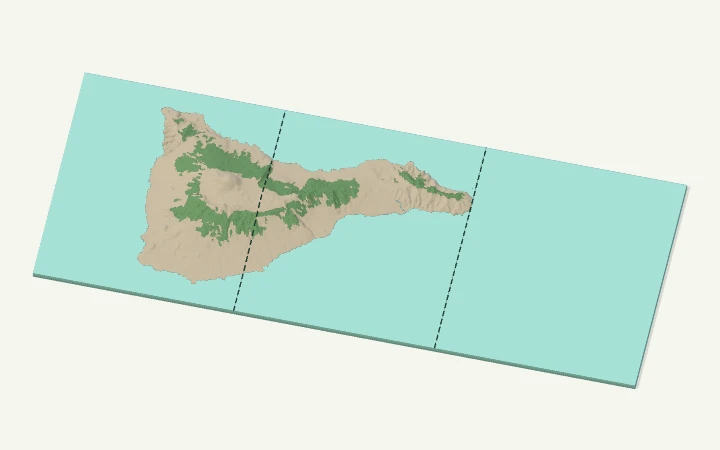
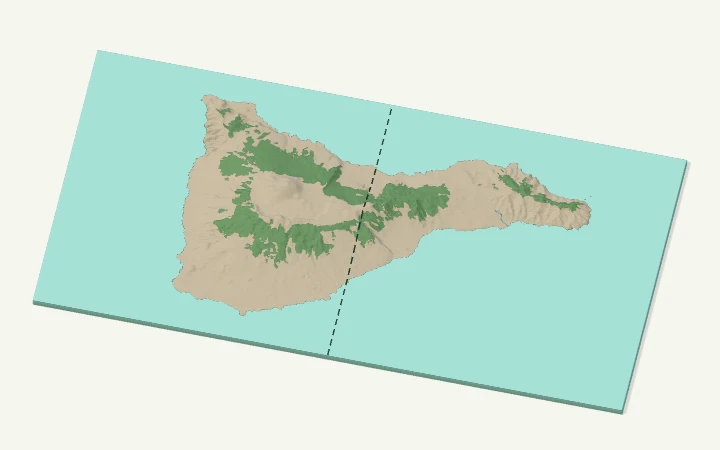
Ajusta el retall de Tenerife a dues peces

Changed region(s): [[0.0306, 0.0933, 0.9778, 0.9333]]

diff --git a/index.html b/index.html
@@ -212,7 +212,7 @@
       <path d="m27 9 7-6" stroke="var(--umbrella-accent)" stroke-width="4.5"/>
     </svg><span>ortogra<span class="umbrella-dot">.</span>fi</span>
   </a></p>
-  <div><a href="https://github.com/aaronFortuno/relleu-obert" target="_blank" rel="noreferrer" data-i18n-text="ui.footer.openSource"><svg class="repo-icon" viewBox="0 0 16 16" aria-hidden="true" focusable="false"><path d="M1 8h4m6 0h4"/><circle cx="8" cy="8" r="3"/></svg>Codi obert</a><a href="https://github.com/aaronFortuno/relleu-obert/blob/main/LICENSE" target="_blank" rel="noreferrer">MIT</a><button id="version-open" class="version-button" aria-label="Historial de versions">v0.23.5</button><button data-open="about-dialog" class="v4v-button" aria-label="Sobre el projecte · V4V" data-i18n-aria="ui.footer.about"><span class="desktop-copy" data-i18n="ui.footer.aboutDesktop">♡ Sobre el projecte · V4V</span><span class="mobile-copy">V4V</span></button></div>
+  <div><a href="https://github.com/aaronFortuno/relleu-obert" target="_blank" rel="noreferrer" data-i18n-text="ui.footer.openSource"><svg class="repo-icon" viewBox="0 0 16 16" aria-hidden="true" focusable="false"><path d="M1 8h4m6 0h4"/><circle cx="8" cy="8" r="3"/></svg>Codi obert</a><a href="https://github.com/aaronFortuno/relleu-obert/blob/main/LICENSE" target="_blank" rel="noreferrer">MIT</a><button id="version-open" class="version-button" aria-label="Historial de versions">v0.23.6</button><button data-open="about-dialog" class="v4v-button" aria-label="Sobre el projecte · V4V" data-i18n-aria="ui.footer.about"><span class="desktop-copy" data-i18n="ui.footer.aboutDesktop">♡ Sobre el projecte · V4V</span><span class="mobile-copy">V4V</span></button></div>
 </footer>
 
 <dialog id="projects-dialog" aria-labelledby="projects-title">

diff --git a/src/main.js b/src/main.js
@@ -1373,6 +1373,7 @@ $('#release-list').innerHTML=[['0.23.2','Botó de Galeria de maquetes amb vora i
 $('#release-list').insertAdjacentHTML('afterbegin',`<article class="release-entry"><div><strong>v0.23.3</strong><time datetime="2026-11-05">05/11/2026</time></div><p data-i18n="history.translationRelease">${t('history.translationRelease')}</p></article>`);
 $('#release-list').insertAdjacentHTML('afterbegin',`<article class="release-entry"><div><strong>v0.23.4</strong><time datetime="2026-11-05">05/11/2026</time></div><p data-i18n="history.galleryGrid">${t('history.galleryGrid')}</p></article>`);
 $('#release-list').insertAdjacentHTML('afterbegin',`<article class="release-entry"><div><strong>v0.23.5</strong><time datetime="2026-11-05">05/11/2026</time></div><p data-i18n="guide.release">${t('guide.release')}</p></article>`);
+$('#release-list').insertAdjacentHTML('afterbegin',`<article class="release-entry"><div><strong>v0.23.6</strong><time datetime="2026-11-05">05/11/2026</time></div><p data-i18n="history.tenerifeFrame">${t('history.tenerifeFrame')}</p></article>`);
 $('#copy-lightning').onclick=async()=>{try{await navigator.clipboard.writeText('aptswim903@walletofsatoshi.com');feedback('copy-status',statusMessage('copy.done'));}catch{feedback('copy-status',statusMessage('copy.manual'));}};
 for(const toggle of document.querySelectorAll('.sidebar-left .section-toggle'))toggle.disabled=true;
 function refreshWorkshopLanguage(){

diff --git a/src/locales/workshop-base.js b/src/locales/workshop-base.js
@@ -1,5 +1,6 @@
 // Each row follows the order ca, es, gl, eu, en.
 export default {
+  'history.tenerifeFrame': ["Nou retall de Tenerife en dues peces de 20 × 20 cm.","Nuevo encuadre de Tenerife en dos piezas de 20 × 20 cm.","Novo recorte de Tenerife en dúas pezas de 20 × 20 cm.","Tenerifeko ebakidura berria, 20 × 20 cm-ko bi piezatan.","New Tenerife framing in two 20 × 20 cm pieces."],
   'history.galleryGrid': ["Galeria amb graella de fitxes, filtres i dos exemples nous de l’Aneto.","Galería con cuadrícula de fichas, filtros y dos ejemplos nuevos del Aneto.","Galería con grella de fichas, filtros e dous exemplos novos do Aneto.","Galeria txartel-saretarekin, iragazkiekin eta Anetoko bi adibide berrirekin.","Gallery with a card grid, filters and two new Aneto examples."],
   'app.tagline': ['Geografia que pots tocar.', 'Geografía que puedes tocar.', 'Xeografía que podes tocar.', 'Ukitu dezakezun geografia.', 'Geography you can touch.'],
   'header.help': ['Com funciona', 'Cómo funciona', 'Como funciona', 'Nola dabil', 'How it works'],

diff --git a/src/curated-examples.js b/src/curated-examples.js
@@ -143,8 +143,8 @@ export const CURATED_EXAMPLES = [
     category: 'Illa volcànica',
     landforms: ['islands', 'volcanic'],
     description: 'L’illa sencera, del Teno a Anaga i a la punta de la Rasca, amb el Teide al centre.',
-    center: [28.367, -16.308],
-    width: 510,
+    center: [28.296977003484972, -16.478324950580063],
+    width: 400,
     height: 200,
     scale: 300000,
     rotation: -25,

diff --git a/work/RO-046-CATALEG.md b/work/RO-046-CATALEG.md
@@ -31,7 +31,7 @@ Les tres imatges WebP de 720 × 450 píxels ocupen 168 kB en total. Les captures
 
 El lot final incorpora els onze retalls de Relleu pur i els vuit de Model complet que faltaven. Amb la incorporació de la badia de Tamariu, el carrusel reparteix 17 fitxes de Relleu pur i 12 de Model complet al llarg del bucle. Els 29 retalls de les taules es poden generar des de la fitxa, amb la mida, el centre, el gir i l’escala documentats.
 
-La captura panoràmica de Tenerife mostra les tres peces. A Granada, el visor conserva les vies ordinàries i els edificis quan falla la integració dels perfils suaus. A Amsterdam, la unió dels carrers es recupera amb un ajust de precisió projectada i es conserva el retall. Els models urbans grans poden trigar diversos minuts en l’equip de prova.
+La primera captura de Tenerife mostrava tres peces. A Granada, el visor conserva les vies ordinàries i els edificis quan falla la integració dels perfils suaus. A Amsterdam, la unió dels carrers es recupera amb un ajust de precisió projectada i es conserva el retall. Els models urbans grans poden trigar diversos minuts en l’equip de prova.
 
 Les dinou captures del lot final són WebP de 720 × 450 píxels i ocupen 729 kB en total. La cartografia i els edificis d’aquest lot provenen d’OpenStreetMap via OpenFreeMap. [Imatges](../public/examples/) · [OpenStreetMap](https://www.openstreetmap.org/copyright)
 
@@ -54,15 +54,19 @@ Els dos retalls de l’Aneto comparen el conjunt del massís amb el detall dels 
 
 Les dues captures WebP de 720 × 450 píxels provenen del visor. Fan servir elevacions de Mapterhorn, roca i neu derivades d’ESA WorldCover 2021 v200 (CC BY 4.0), i aigua i bosc d’OpenStreetMap via OpenFreeMap. [Mapterhorn](https://mapterhorn.com/attribution/) · [ESA WorldCover](https://doi.org/10.5281/zenodo.7254221) · [OpenStreetMap](https://www.openstreetmap.org/copyright)
 
+## Tenerife en dues peces
+
+El nou retall reprodueix l’enquadrament de `tenerife.json` aportat per l’usuari. El model de Relleu pur abasta 120 × 60 km amb detall equilibrat i exageració vertical ×1,5. La miniatura WebP mostra la guia de tall entre les dues peces de 20 × 20 cm. [Miniatura de Tenerife](../public/examples/tenerife.webp)
+
 ## Com reproduir els retalls
 
 1. Tria el mode i introdueix la **mida de la maqueta** en l’ordre amplada × alçada. Fes servir la mida personalitzada quan calgui.
 2. Enganxa a la cerca de Territori el **centre del retall** en graus decimals WGS84, amb punt decimal i coma entre latitud i longitud. Els enllaços «Mapa» situen aquest punt.
-3. Mou el selector d’**escala horitzontal** fins al valor indicat. Les fletxes permeten avançar un salt d’escala cada vegada. Orienta el nord a dalt (gir de 0°), amb un gir de +10° al Cap de Creus i de −25° al panorama de Tenerife. L’**extensió** és la mida real del retall, calculada a partir de la mida de la maqueta i l’escala.
+3. Mou el selector d’**escala horitzontal** fins al valor indicat. Les fletxes permeten avançar un salt d’escala cada vegada. Orienta el nord a dalt (gir de 0°), amb un gir de +10° al Cap de Creus i de −25° a Tenerife. L’**extensió** és la mida real del retall, calculada a partir de la mida de la maqueta i l’escala.
 
-El centre de cada fila és el punt mig de l’enquadrament proposat. Pot caure a l’aigua o fora del topònim. La mida i el gir formen part de l’enquadrament. Si es canvia la proporció de la peça, cal mantenir dins del retall els elements citats a la fitxa. El panorama de Tenerife té un format específic.
+El centre de cada fila és el punt mig de l’enquadrament proposat. Pot caure a l’aigua o fora del topònim. La mida i el gir formen part de l’enquadrament. Si es canvia la proporció de la peça, cal mantenir dins del retall els elements citats a la fitxa.
 
-A la versió 0.22.21, el **Model complet** admet fins a 1:20.000, amb un límit addicional per superfície de càrrega. El **Relleu pur** admet 1:10.000–1:100.000 en formats de fins a 50 cm de costat, i 1:50.000–1:500.000 en el format panoràmic de 51–100 × 10–20 cm. Per comparar les mostres de Relleu pur, la lectura de la forma es farà amb el terreny i l’aigua. La cobertura del sòl i el bosc que ofereix el mode són secundaris per a aquesta tria. [Regles de selecció](../src/selection.js) · [Límits d’escala](../src/place-map.js) · [Seguiment del mode](RO-055-RELLEU-PUR.md)
+El **Model complet** admet fins a 1:20.000, amb un límit addicional per superfície de càrrega. El **Relleu pur** admet 1:10.000–1:500.000 en formats de fins a 50 cm de costat, i 1:50.000–1:500.000 en el format panoràmic de 51–100 × 10–20 cm. El terreny i l’aigua permeten comparar les formes de les mostres de Relleu pur. [Regles de selecció](../src/selection.js) · [Límits d’escala](../src/place-map.js) · [Seguiment del mode](RO-055-RELLEU-PUR.md)
 
 ## Relleu pur
 
@@ -81,7 +85,7 @@ A la versió 0.22.21, el **Model complet** admet fins a 1:20.000, amb un límit 
 
 | Què representa | Lloc | Centre del retall | Extensió real | Maqueta i escala | Què s’hi hauria de llegir |
 | --- | --- | --- | --- | --- | --- |
-| Illa volcànica | Tenerife (Canàries) | `28.3670,-16.3080` [Mapa](https://www.openstreetmap.org/?mlat=28.3670&mlon=-16.3080#map=8/28.3670/-16.3080) | 153 × 60 km | 51 × 20 cm · 1:300.000 · −25° | El contorn de l’illa sencera, del Teno a Anaga i a la punta de la Rasca, amb el Teide al centre del relleu insular. [Cartografia del Cabildo de Tenerife](https://datos.canarias.es/catalogos/general/dataset/limites-municipales-de-tenerife/resource/91c4573e-d737-4c20-9827-758727d08e3a) |
+| Illa volcànica | Tenerife (Canàries) | `28.29697700,-16.47832495` [Mapa](https://www.openstreetmap.org/?mlat=28.29697700&mlon=-16.47832495#map=8/28.29697700/-16.47832495) | 120 × 60 km | 40 × 20 cm · 1:300.000 · −25° | El contorn de l’illa sencera, del Teno a Anaga i a la punta de la Rasca, amb el Teide al centre del relleu insular. Dues peces de 20 × 20 cm. [Cartografia del Cabildo de Tenerife](https://datos.canarias.es/catalogos/general/dataset/limites-municipales-de-tenerife/resource/91c4573e-d737-4c20-9827-758727d08e3a) |
 | Con volcànic i caldera | Teide i Las Cañadas (Tenerife) | `28.2600,-16.6150` [Mapa](https://www.openstreetmap.org/?mlat=28.2600&mlon=-16.6150#map=10/28.2600/-16.6150) | 24 × 20 km | 24 × 20 cm · 1:100.000 | Retall de detall de l’illa per llegir la vora de la caldera i els cons del Teide i Pico Viejo. [IGN](https://www.ign.es/web/catalogo-cartoteca/resources/pdfcards/card031570.pdf) |
 | Vall glacial | Ordesa i Mont Perdut (Aragó) | `42.6300,0.0250` [Mapa](https://www.openstreetmap.org/?mlat=42.6300&mlon=0.0250#map=10/42.6300/0.0250) | 24 × 20 km | 24 × 20 cm · 1:100.000 | La vall d’Ordesa i les seves parets fins al massís del Mont Perdut. Interessant per comparar la secció amb la d’un canó fluvial. [MITECO](https://www.miteco.gob.es/en/parques-nacionales-oapn/red-parques-nacionales/parques-nacionales/ordesa/valores-naturales/geologia.html) |
 | Massís d’alta muntanya | Pirineus · sector de l’Aneto (Aragó) | `42.6350,0.6500` | 24 × 20 km | 24 × 20 cm · 1:100.000 | El massís de la Maladeta, amb el cim de l’Aneto i les valls que l’envolten. |
@@ -146,9 +150,9 @@ A la versió 0.22.21, el **Model complet** admet fins a 1:20.000, amb un límit 
 
 ## Validació abans d’incorporar-los al selector
 
-Els retalls tenen mida, escala i centre definits. La comprovació local cobreix els límits geomètrics i de càrrega de l’aplicació. A Tenerife també s’ha contrastat el retall girat amb els límits municipals del Cabildo. L’illa queda sencera i les illes veïnes queden fora del retall. La generació de les mostres queda per després de triar el lot inicial. [Límits municipals de Tenerife](https://datos.canarias.es/catalogos/general/dataset/limites-municipales-de-tenerife/resource/91c4573e-d737-4c20-9827-758727d08e3a) · [Contorns insulars de l’ISTAC](https://datos.canarias.es/catalogos/general/dataset/islas-canarias-delimitaciones-territoriales-para-fines-estadisticos2)
+Els retalls tenen mida, escala i centre definits. La comprovació local cobreix els límits geomètrics i de càrrega de l’aplicació. La primera proposta de Tenerife es va contrastar amb els límits municipals del Cabildo i els contorns insulars de l’ISTAC. [Límits municipals de Tenerife](https://datos.canarias.es/catalogos/general/dataset/limites-municipales-de-tenerife/resource/91c4573e-d737-4c20-9827-758727d08e3a) · [Contorns insulars de l’ISTAC](https://datos.canarias.es/catalogos/general/dataset/islas-canarias-delimitaciones-territoriales-para-fines-estadisticos2)
 
 - **Costa i aigües poc profundes.** Comprova el contorn marí, les llacunes i els passos estrets del delta. Revisa la cota de base en mostres de costa, arran de la incidència registrada a Tamariu. A les maquetes el mar és una superfície plana. [Incidència i tractament del mar](BACKLOG.md#ro-055--mode-de-relleu-pur)
 - **Formes de muntanya.** Revisa la silueta amb exageració vertical ×1 abans d’ajustar-la. Les agulles, els cràters petits i els penya-segats depenen de la resolució del terreny.
 - **Trama urbana.** Contrasta les petjades, vies i ponts amb el mapa. La primera mostra s’ha de poder llegir a partir del conjunt urbà. Les alçades i cobertes singulars demanen comprovar els atributs disponibles. [Fonts del projecte](../SOURCES.md)
-- **Peces i captures.** El delta i el panorama de Tenerife es divideixen en quatre i tres peces, respectivament, amb el límit actual de 25 cm per costat. Quan es generin les mostres, convé desar una vista zenital i una d’obliqua amb la mida, l’escala i l’exageració emprades. [Pla de tall](../src/selection.js)
+- **Peces i captures.** El delta de l’Ebre es divideix en quatre peces i Tenerife en dues, amb el límit de 25 cm per costat. [Pla de tall](../src/selection.js)

diff --git a/work/HISTORIAL.md b/work/HISTORIAL.md
@@ -2,6 +2,12 @@
 
 Actualitzat: 2026-11-05. Les entrades validades surten del [backlog actiu](BACKLOG.md), mantenint identificadors i evidència. Una incidència nova es pot reobrir sense renumerar-la.
 
+## v0.23.6 — Tenerife en dues peces
+
+RO-046 aplica el retall de l’usuari a la fitxa de Tenerife. La maqueta fa 40 × 20 cm a 1:300.000, amb un gir de −25° i dues peces de 20 × 20 cm. El nou render conserva el contorn de l’illa i mostra un sol tall. [Enquadrament i captura](RO-046-CATALEG.md#tenerife-en-dues-peces)
+
+El motor reprodueix els quatre vèrtexs i els 916.184 triangles de l’informe de l’usuari amb Mapterhorn. La fitxa i el filtre de mida s’han comprovat al navegador a 1280 × 720. Han passat 32 proves locals. La compilació de producció queda pendent del marge de 2,5 GiB de memòria lliure.
+
 ## v0.23.5 — Guia del taller
 
 RO-053 adapta «Com funciona» a l’ús del taller. La guia té tres passos, un accés a la galeria i cinc preguntes desplegables sobre modes, impressió, fonts, progrés i projectes desats. Els textos són disponibles en cinc idiomes. Galeria, ajuda i idioma comparteixen estil de capçalera. El text d’ajuda deixa pas a la icona al mòbil.

diff --git a/CHANGELOG.md b/CHANGELOG.md
@@ -1,5 +1,9 @@
 # Canvis
 
+## v0.23.6 — 2026-11-05
+
+- Tenerife adopta el nou retall de 40 × 20 cm, amb dues peces de 20 × 20 cm i una miniatura actualitzada.
+
 ## v0.23.5 — 2026-11-05
 
 - Galeria, ajuda i idioma comparteixen l’estil de la capçalera. Galeria i «Com funciona» incorporen icones.

diff --git a/work/BACKLOG.md b/work/BACKLOG.md
@@ -1,6 +1,6 @@
 # Backlog actiu de Relleu Obert
 
-Actualitzat el **2026-11-05 · v0.23.5**. Guia del taller i capçalera. [Historial](HISTORIAL.md).
+Actualitzat el **2026-11-05 · v0.23.6**. Retall de Tenerife en dues peces. [Historial](HISTORIAL.md).
 
 ## Ordre de treball
 
